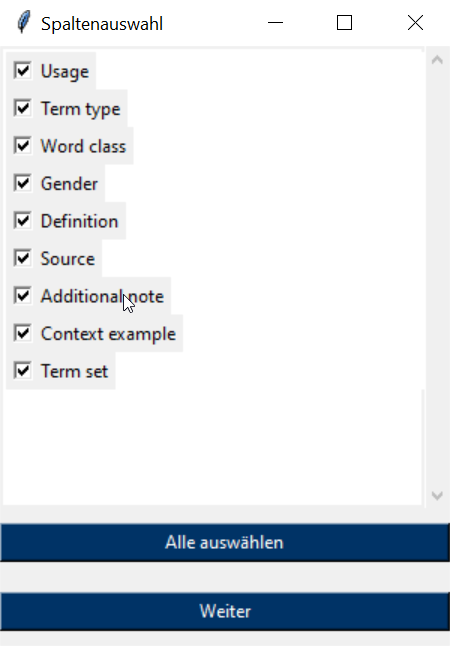
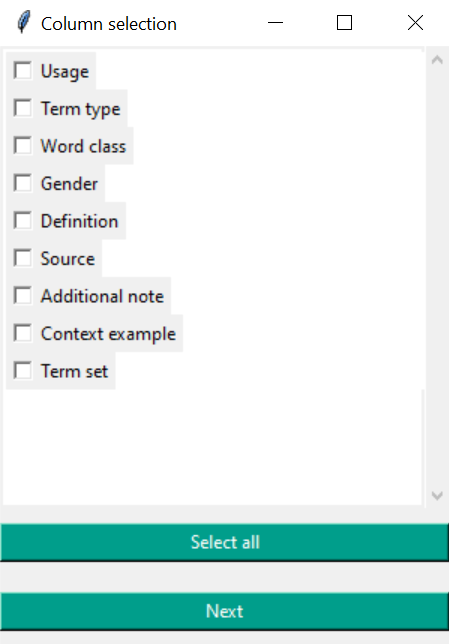
Style Update

diff --git a/MVP/TBX_to_HTML_mvp.py b/MVP/TBX_to_HTML_mvp.py
@@ -3,6 +3,9 @@ import xml.etree.ElementTree as ET                  # Verarbeitung von XML-Daten
 import tkinter as tk                                # GUI-Bibliothek
 from tkinter import filedialog                      # Dateidialog-Funktionalität
 from datetime import datetime                       # Datumsanzeige
+import webbrowser 
+from tkinter import *
+from tkinter.ttk import *# Für Links in tkInter benötigt
 
 class ScrollableFrame(tk.Frame):
     # Klasse für ein scrollbares Frame in der Gui
@@ -33,6 +36,8 @@ class ScrollableFrame(tk.Frame):
             canvas_width = event.width
             self.canvas.itemconfig("self.frame", width=canvas_width)
 
+def open_github(event):
+    webbrowser.open_new("https://github.com/W45P85/TBX_to_HTML")
 
 def read_tbx(file_path, selected_columns):
     # Funktion zum Lesen einer TBX-Datei und Extrahieren von Daten
@@ -105,127 +110,178 @@ def convert_tbx_to_html(file_path, html_file_path, selected_columns):
     <title>TBX in HTML konvertiert</title>
     <style>
 
-        .tooltip {{
-            position: relative;
-            }}
+    .tooltip {{
+        position: relative;
+    }}
 
-        .tooltip .tooltiptext {{
-            visibility: hidden;
-            width: auto;
-            background-color: #555;
-            color: #fff;
-            text-align: center;
-            border-radius: 6px;
-            padding: 5px;
-            position: absolute;
-            z-index: 1;
-            bottom: 125%;
-            left: 50%;
-            margin-left: -60px;
-            opacity: 0;
-            transition: opacity 0.3s;
-        }}
+    .tooltip .tooltiptext {{
+        visibility: hidden;
+        width: auto;
+        background-color: #555;
+        color: #fff;
+        text-align: center;
+        border-radius: 6px;
+        padding: 5px;
+        position: absolute;
+        z-index: 10000;
+        bottom: 125%;
+        left: 50%;
+        margin-left: -60px;
+        opacity: 0;
+        transition: opacity 0.3s;
+    }}
 
-        .tooltip:hover .tooltiptext {{
-            visibility: visible;
-            opacity: 1;
-        }}
+    .tooltip:hover .tooltiptext {{
+        visibility: visible;
+        opacity: 1;
+    }}
 
-        body {{
-            font-family: Calibri;
-            background-color: #f4f4f4;
-            margin: 0;
-            text-align: center;
-            padding: 0;
-        }}
+    body {{
+        font-family: 'Poppins', 'Helvetica Neue', Helvetica, Arial, sans-serif;
+        background-color: #f8f9fa;
+        margin: 0;
+        text-align: center;
+        padding: 20px;
+    }}
 
-        header {{
-            text-align: left;
-        }}
+    .container {{
+        max-width: 1140px;
+        margin: 0 auto;
+        padding: 20px;
+        background-color: #ffffff;
+        border-radius: 10px;
+        box-shadow: 0 2px 4px rgba(0, 0, 0, 0.1);
+    }}
 
-        img {{
-            max-width: 170px;
-            padding: 10px;
-        }}
+    header {{
+        text-align: left;
+        display: flex;
+        width: 100%;
+        align-items: center;
+        background-color: #000000;
+        padding: 10px 20px;
+        color: white;
+        border-radius: 10px 10px 0 0;
+    }}
 
-        h2 {{
-            color: #333;
-            text-align: center;
-            font-size: 40px;
-        }}
+    img {{
+        max-width: 150px;
+        padding: 5px;
+        border-radius: 8px;
+    }}
+    
+    h1 {{
+        margin: 0;
+        font-size: 2rem;
+        color: white;
+        padding-left: 10px;
+    }}
 
-        .search-container {{
-            margin-top: 20px;
-        }}
+    h2 {{
+        color: #343a40;
+        text-align: center;
+        font-size: 1.75rem;
+        margin-top: 20px;
+    }}
 
-        p {{
-            color: #555;
-        }}
+    .search-container {{
+        margin-top: 20px;
+    }}
 
-        input[type="text"] {{
-            text-align: center;
-            padding: 8px;
-            margin-bottom: 10px;
-            border: 1px solid #ccc;
-            border-radius: 4px;
-        }}
+    p {{
+        color: #6c757d;
+        font-size: 1rem;
+    }}
+    
+    small {{
+        font-size: 0.875rem;
+        margin-left: 1em;
+        font-size: 16px;
+    }}
 
-        button {{
-            background-color: #003366;
-            color: white;
-            padding: 10px 15px;
-            border: none;
-            border-radius: 4px;
-            cursor: pointer;
-        }}
+    input[type="text"] {{
+        text-align: center;
+        padding: 10px;
+        margin-bottom: 10px;
+        border: 1px solid #ced4da;
+        border-radius: 5px;
+        width: calc(100% - 22px);
+        max-width: 400px;
+        margin-left: auto;
+        margin-right: auto;
+    }}
 
-        button:hover {{
-            background-color: #45a049;
-        }}
+    button {{
+        background-color: #007bff;
+        color: white;
+        padding: 10px 20px;
+        border: none;
+        border-radius: 5px;
+        cursor: pointer;
+        font-size: 1rem;
+        transition: background-color 0.3s ease, transform 0.3s ease;
+    }}
 
-        .hidden {{
-            display: none;
-            }}
+    button:hover {{
+        background-color: #0056b3;
+        transform: translateY(-2px);
+    }}
 
-        table {{
-            border: solid #000000;
-            width: 100%;
-            border-collapse: collapse;
-            margin-top: 20px;
-        }}
+    .hidden {{
+        display: none;
+    }}
 
-        th, td {{
-            border: thin solid #000000;
-            vertical-align: top;
-            padding: 12px;
-            text-align: left;
-            border-bottom: 1px solid #ddd;
-        }}
+    table {{
+        border: 1px solid #dee2e6;
+        width: 100%;
+        border-collapse: collapse;
+        margin-top: 20px;
+        border-radius: 8px;
+        overflow: hidden;
+    }}
 
-        footer {{
-            text-align: center;
-            font-style: italic;
-            margin: 20px;
-            padding: 20px;
-        }}
+    th, td {{
+        border: 1px solid #dee2e6;
+        vertical-align: top;
+        padding: 12px;
+        text-align: left;
+        border-bottom: 1px solid #dee2e6;
+    }}
 
-        th {{
-            background-color: #005D6B;
-            color: white;
-        }}
+    th {{
+        background-color: #009e8b;
+        color: white;
+    }}
 
-        tr:hover {{
-            background-color: #f5f5f5;
-        }}
+    tr:nth-child(even) {{
+        background-color: #f2f2f2;
+    }}
 
-        .english-table {{
-            display: none;
-        }}
-    </style>
+    tr:hover {{
+        background-color: #e9ecef;
+    }}
+
+    footer {{
+        text-align: center;
+        font-style: italic;
+        margin: 20px 0;
+        padding: 10px;
+        background-color: #f8f9fa;
+        border-top: 1px solid #dee2e6;
+        color: #6c757d;
+        border-radius: 0 0 10px 10px;
+    }}
+
+    .english-table {{
+        display: none;
+    }}
+</style>
+
+
 </head>
 <header>
-    <!-- <img src="img\logo.PNG" alt="Logo Remira"> -->
-    <h1>REMIRA terminology</h1>
+    <!-- <img src="img\logo.PNG" alt="Logo"> -->
+    <h1>TERMINOLOGY Overview from: </h1>
     <small>{date}</small>
 </header>
 <body>
@@ -797,7 +853,7 @@ document.addEventListener('DOMContentLoaded', function() {
 
 </div>
 <footer>
-    User Assistance - 2023
+    <small>Automatically generated list by the tool <a href="https://github.com/W45P85/TBX_to_HTML" target="_blank">TBX to HTML</a>.</small>
 </footer>
 </body>
 </html>
@@ -863,7 +919,7 @@ def show_column_selection(file_path):
 
     # Fenster für Spaltenauswahl erstellen
     root = tk.Tk()
-    root.title("Spaltenauswahl")
+    root.title("Column selection")
     root.geometry("300x400")
 
     selected_columns = []
@@ -897,7 +953,7 @@ def show_column_selection(file_path):
         checkbox = tk.Checkbutton(scroll_frame.scrollable_frame, text=new_column_names.get(column, column), variable=var, command=lambda col=column: on_checkbox_change(col))
         checkbox.pack(anchor=tk.W)
 
-    select_all_button = tk.Button(root, text="Alle auswählen", command=select_all_columns, bg="#003366", fg="white")
+    select_all_button = tk.Button(root, text="Select all", command=select_all_columns, bg="#009e8b", fg="white")
     select_all_button.pack(pady=10, side=tk.TOP, fill=tk.X)
 
     # Funktion zum Schließen des Programms
@@ -909,7 +965,7 @@ def show_column_selection(file_path):
         convert_tbx_to_html(file_path, html_file_path, selected_columns)
 
 
-    continue_button = tk.Button(root, text="Weiter", command=on_continue_click, bg="#003366", fg="white")
+    continue_button = tk.Button(root, text="Next", command=on_continue_click, bg="#009e8b", fg="white")
     continue_button.pack(pady=10, side=tk.TOP, fill=tk.X)
 
     root.mainloop()
@@ -921,19 +977,20 @@ def show_column_selection(file_path):
 root = tk.Tk()
 #root.iconbitmap("favicon.ico")
 root.title("Termfinder by User Assistance")
-root.geometry("500x150")
+root.geometry("500x213")
 
 # Schaltfläche um TBX-Datei auszuwählen
-choose_button = tk.Button(root, text="Datei auswählen", command=choose_file)
+choose_button = tk.Button(root, text="Select File", command=choose_file, bg="#009e8b", fg="white", width=20, height=2, anchor="center", font=('times', 16, 'bold', 'italic'))
 choose_button.pack(pady=20)
 
 # Button zum Schließen des Programms
-close_button = tk.Button(root, text="Programm schließen", command=root.destroy)
+close_button = tk.Button(root, text="Close", command=root.destroy, bg="#ff6060", fg="white", width=20, height=2, anchor="center", font=('times', 12, 'bold', 'italic'))
 close_button.pack(pady=10)
 
 # Label für Info-Text
-info_label = tk.Label(root, text="Programmed by Daniel Rukober - User Assistance", anchor="w", justify="left")
+info_label = tk.Label(root, text="Programmed by Daniel Rukober", fg="blue", cursor="hand2", font=('Arial', 10, 'italic underline'))
 info_label.pack(pady=10, padx=10)
+info_label.bind("<Button-1>", open_github)
 
 # Starte die GUI
 root.mainloop()

diff --git a/README.md b/README.md
@@ -25,7 +25,7 @@ No installation is required. Simply use the **tbx_to_html.exe** file from the "M
 
 <img src="MVP/img/Programm%20öffnet%20sich.PNG">
 
-- Click on the "Select file" button. (1)
+- Click on the "Select file" button.
 - Select the desired TBX file from your file system and confirm the selection with "Open".
 
 3. column selection:
